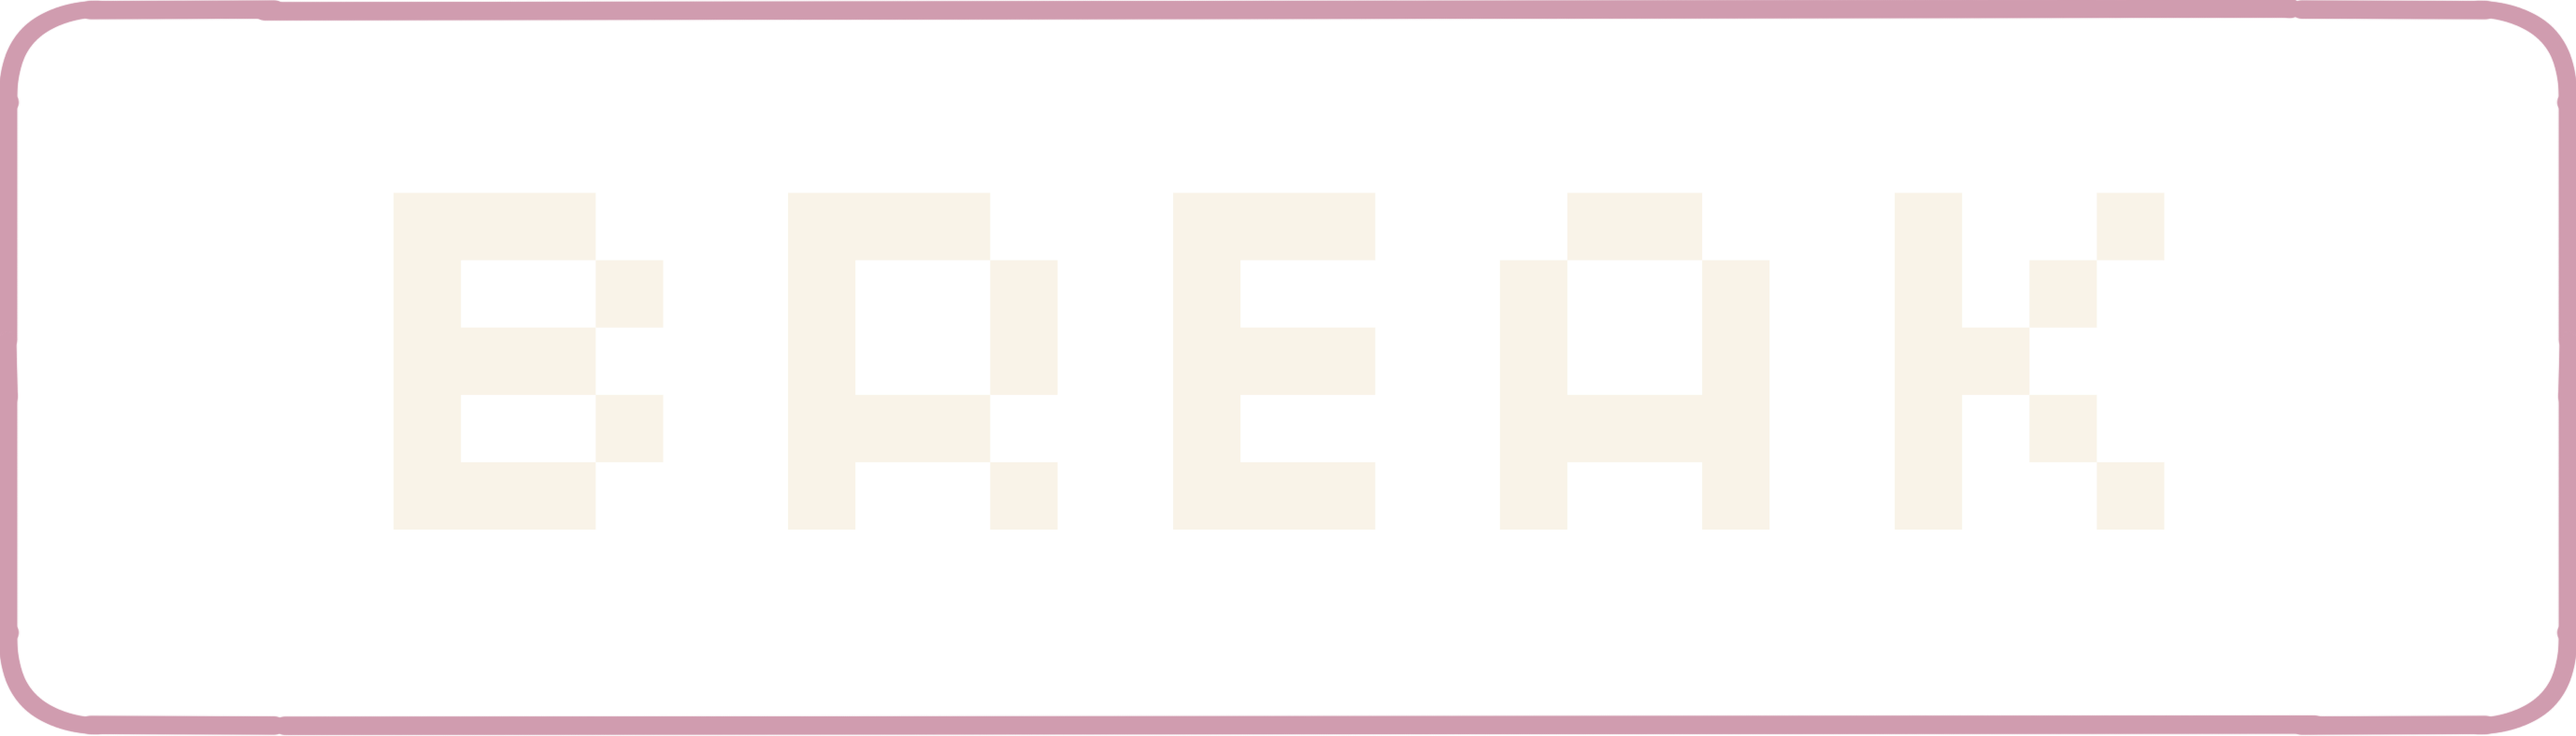
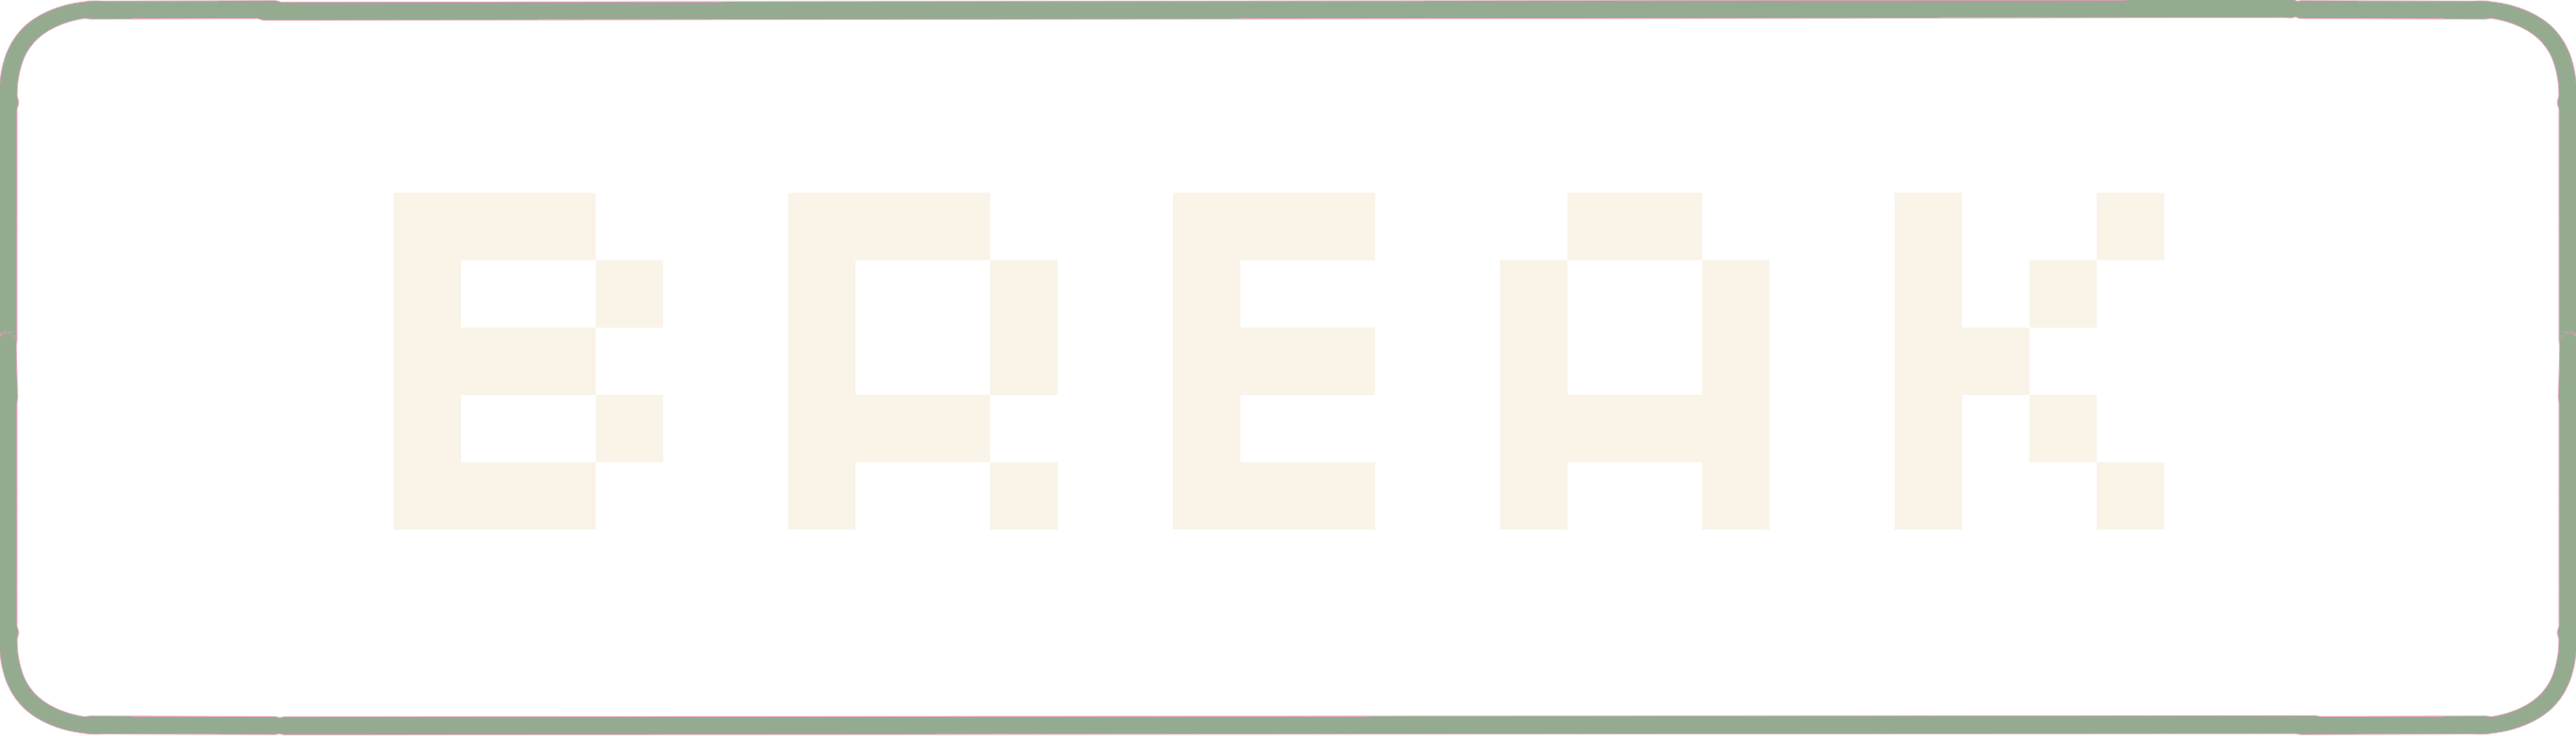
Modified UI

Changed region(s): [[0.0, 0.0, 1.0, 1.0]]

diff --git a/src/App.tsx b/src/App.tsx
@@ -4,6 +4,12 @@ import './App.css';
 
 import work_background from './Assets/work_background.png';
 import break_background from './Assets/break_background.png';
+import workBtnClicked from "./Assets/work-clicked.png";
+import workBtn from "./Assets/work.png";
+import breakBtnClicked from "./Assets/break-clicked.png";
+import breakBtn from "./Assets/break.png";
+import closeBtn from "./Assets/close.png";
+import playImg from "./Assets/play.png";
 
 function App() {
     // Encouragement messages
@@ -17,6 +23,8 @@ function App() {
   const [isRunning, setIsRunning] = useState(false);
   const [isBreak, setIsBreak] = useState(false);
   const [encouragement, setEncouragement] = useState("You Can Do It!");
+  const [breakButtonImage, setBreakButtonImage] = useState(breakBtn);
+  const [workButtonImage, setWorkButtonImage] = useState(workBtn);
 
   // Set constant for Work and Break timing (Consistency)
   const WORK_TIME = 25 * 60; // 1500 seconds
@@ -67,6 +75,8 @@ function App() {
   const switchMode = (breakMode: boolean) => {
     setIsBreak(breakMode);
     setIsRunning(false);
+    setBreakButtonImage(breakMode ? breakBtnClicked : breakBtn);
+    setWorkButtonImage(breakMode ? workBtn : workBtnClicked);
     setTimeLeft(breakMode ? BREAK_TIME : WORK_TIME);
   }
 
@@ -86,19 +96,20 @@ function App() {
     <div className="home-container"
       style={{ backgroundImage: `url(${isBreak ? break_background : work_background})`, backgroundSize: "cover", backgroundPosition: "center>"}}>
     <div>
-      <button className="closeButton">
-        Close
+      <button className="close-button">
+        <img src={closeBtn} alt="Close" />
       </button>
     </div>
     
     <div className="home-content">
       <div className="home-timer"></div>
+
       <div className="home-controls">
-        <button className="image-button" onClick={ () => switchMode(false)}>
-          Work
+        <button className="image-button" onClick={() => switchMode(false)}>
+          <img src={workButtonImage} alt="Work" />
         </button>
-        <button className="image-button" onClick={ () => switchMode(true)}>
-          Break
+        <button className="image-button" onClick={() => switchMode(true)}>
+          <img src={breakButtonImage} alt="Break" />
         </button>
       </div>
 
@@ -109,7 +120,7 @@ function App() {
       <h1 className="home-timer">{formatTime(timeLeft)}</h1>
 
       <button className='home-button' onClick={(handleClick)}>
-        Start
+        <img src={playImg} alt="Start" />
       </button>
     </div>
     </div>

diff --git a/src/App.css b/src/App.css
@@ -31,7 +31,7 @@ body {
   justify-content: space-between;
   height: 100%;
   width: 100%;
-  padding-top: 60px;
+  padding-top: 10px;
   padding-bottom: 20px;
   box-sizing: border-box;
 }
@@ -40,9 +40,7 @@ body {
   font-size: 20px;
   color: #b76985;
   position: absolute;
-  margin-top: 355px;
-  animation: fadeIn 1s ease-in-out;
-  transition: opacity 0.8s ease;
+  top: 430px;
   background: #fff;
   border: 2px solid #0000001f;
   padding-top: 5px;
@@ -54,13 +52,12 @@ body {
 
 .encouragement-text.hidden {
   opacity: 0;
-  transition: opacity 0.8s ease;
 }
 
 .home-controls {
   display: flex;
   justify-content: center;
-  margin: 0;
+  margin-top: 490px;
 }
 
 .image-button {
@@ -77,33 +74,33 @@ body {
   position: absolute;
   font-size: 48px;
   color: #8b4a62;
-  margin-top: 400px;
+  top: 10px;
+  left: 170px;
 }
 
-.gif-image {
-  height:100px;
-}
 
 .home-button {
+  position: absolute;
+  top: 45px;
+  left: 100px;
   background: none;
   border: none;
   cursor: pointer;
 }
 
 .home-button img {
-  width: 60px;
+  width: 40px;
 }
 
 .close-button {
   position: absolute;
-  top: 10px;
-  right: 10px;
+  margin-top: 20px;
+  left: 420px;
   background: none;
   border: none;
   cursor: pointer;
 }
 
 .close-button img {
-  width: 24px;
-  height: 24px;
+  width: 30px;
 }
